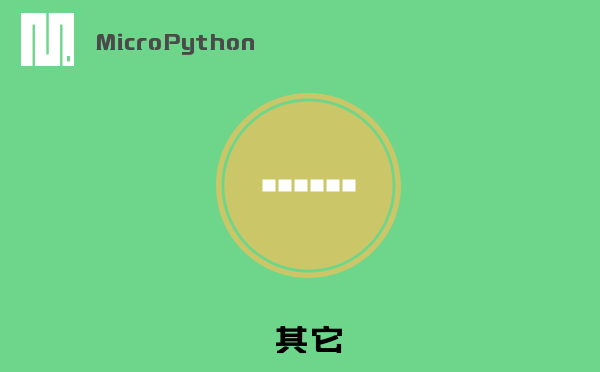
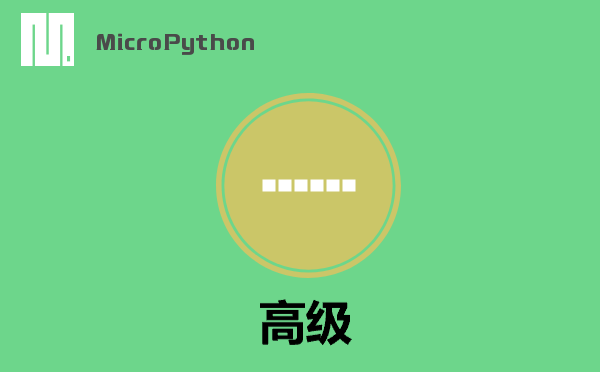
更新高级，去除MPY_ESP32下的其它

Changed region(s): [[0.42, 0.7984, 0.6, 0.9462]]

diff --git a/extensions/microPython/other/QHk210Other/msg.js b/extensions/microPython/other/QHk210Other/msg.js
@@ -2,7 +2,7 @@
 /* eslint-disable require-jsdoc */
 function addMsg (Blockly) {
     Object.assign(Blockly.ScratchMsgs.locales.en, {
-        QH_OTHER_CATEGORY:'Other',
+        QH_OTHER_CATEGORY:'Advanced',
         python_del:'del %1',
         python_in:'%1 is %2 in?',
         PY_time_ticks:'System run time %1',
@@ -23,7 +23,7 @@ function addMsg (Blockly) {
 
     });
     Object.assign(Blockly.ScratchMsgs.locales['zh-cn'], {
-        QH_OTHER_CATEGORY:'其它',
+        QH_OTHER_CATEGORY:'高级',
         python_del:'删除 %1',
         python_in:'%1 是否在 %2 内?',
         PY_time_ticks:'系统运行时间 %1',
@@ -43,7 +43,7 @@ function addMsg (Blockly) {
         controls_exec:'执行代码 %1'
     });
     Object.assign(Blockly.ScratchMsgs.locales["zh-tw"], {
-        QH_OTHER_CATEGORY:'其他',
+        QH_OTHER_CATEGORY:'高级',
         python_del:'刪除 %1',
         python_in:'%1 是否在 %2 內?',
         PY_time_ticks:'系統運行時間 %1',

diff --git a/extensions/microPython/kit/QDPRobotC02/toolbox.js b/extensions/microPython/kit/QDPRobotC02/toolbox.js
@@ -96,26 +96,6 @@ function addToolbox () {
         </value>
     </block>
 </category>
-<category name="%{BKY_QH_OTHER_CATEGORY}" id="QH_OTHER_CATEGORY" colour="#42CCFF" secondaryColour="#42CCFF" iconURI="${QH_OTHER_ICO}">
-    <block type="try_except_else_finally"></block>
-    <block type="PY_time_ticks"></block>    
-    <block type="PY_QH_variables_get"></block>
-    <block type="PY_QH_string">
-        <value name="VAR">
-            <shadow type="text">
-                <field name="TEXT">text</field>
-            </shadow>
-        </value>
-    </block>
-    <block type="python_in">
-        <value name="val">
-            <shadow type="math_number">
-                <field name="NUM">0</field>
-            </shadow>
-        </value>
-    </block>
-    <block type="python_del"></block>
-</category>
 `;
 
 }

diff --git a/extensions/microPython/kit/QDPRobotC02/blocks.js b/extensions/microPython/kit/QDPRobotC02/blocks.js
@@ -777,7 +777,7 @@ function addBlocks (Blockly) {
             });
         }
     };
-
+ /*
     //删除
     Blockly.Blocks.python_del = {
         init: function () {
@@ -797,6 +797,7 @@ function addBlocks (Blockly) {
             });
         }
     };
+   
 
     //try_except
     Blockly.Blocks.try_except_else_finally = {
@@ -901,9 +902,10 @@ function addBlocks (Blockly) {
                 colourTertiary: '#C0C0C0',
                 extensions: ['output_number']
             });
+            
         }     
     };
-
+*/
     return Blockly;
 }
 

diff --git a/extensions/microPython/other/QHk210Other/index.js b/extensions/microPython/other/QHk210Other/index.js
@@ -1,7 +1,7 @@
 const QHk210Other = formatMessage => ({
     name: formatMessage({
         id: 'QHk210Other.name',
-        default: 'other'
+        default: 'Advanced'
     }),
     extensionId: 'QHk210Other',
     version: '1.0.0',
@@ -11,7 +11,7 @@ const QHk210Other = formatMessage => ({
     iconURL: `asset/other.png`,
     description: formatMessage({
         id: 'QHk210Other.description',
-        default: 'other'
+        default: 'Advanced'
     }),
     featured: true,
     blocks: 'blocks.js',

diff --git a/extensions/microPython/kit/QDPRobotC02/generator.js b/extensions/microPython/kit/QDPRobotC02/generator.js
@@ -174,6 +174,8 @@ function addGenerator (Blockly) {
       return code;
   };
 
+  /*
+
   Blockly.Python.try_except_else_finally = function() {
     var branch1 = Blockly.Python.statementToCode(this, 'DO1');
     branch1 = branch1.replace(/(^\s*)|(\s*$)/g, "");
@@ -223,7 +225,7 @@ function addGenerator (Blockly) {
       var code = `${val} in ${name}`;
       return [code,Blockly.Python.ORDER_RELATIONAL];
     };
-
+*/
     return Blockly;
   }
  
